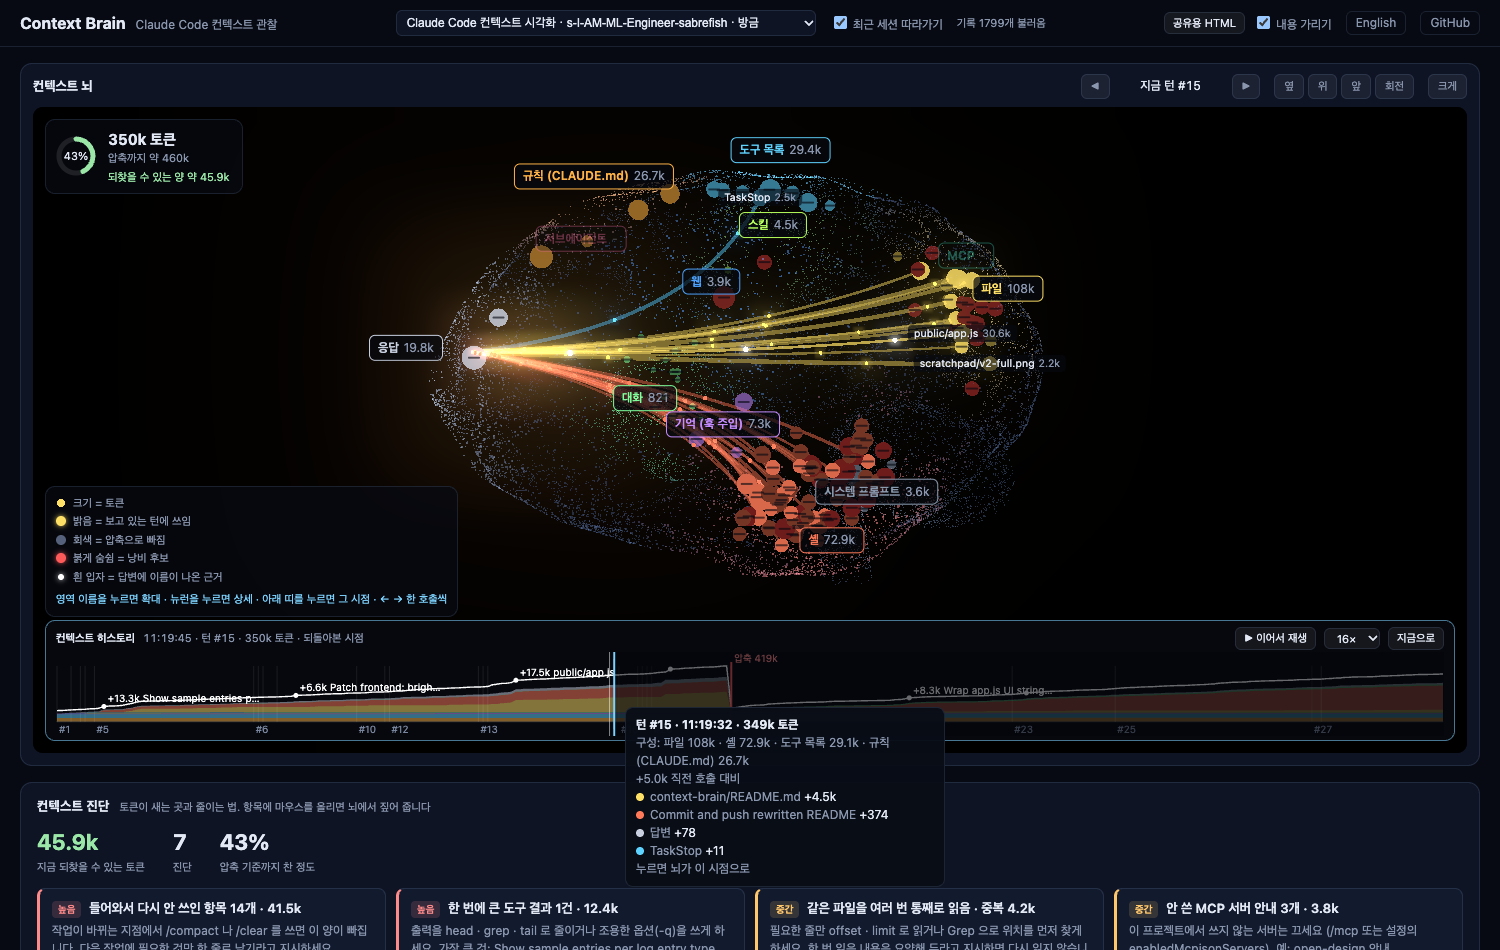
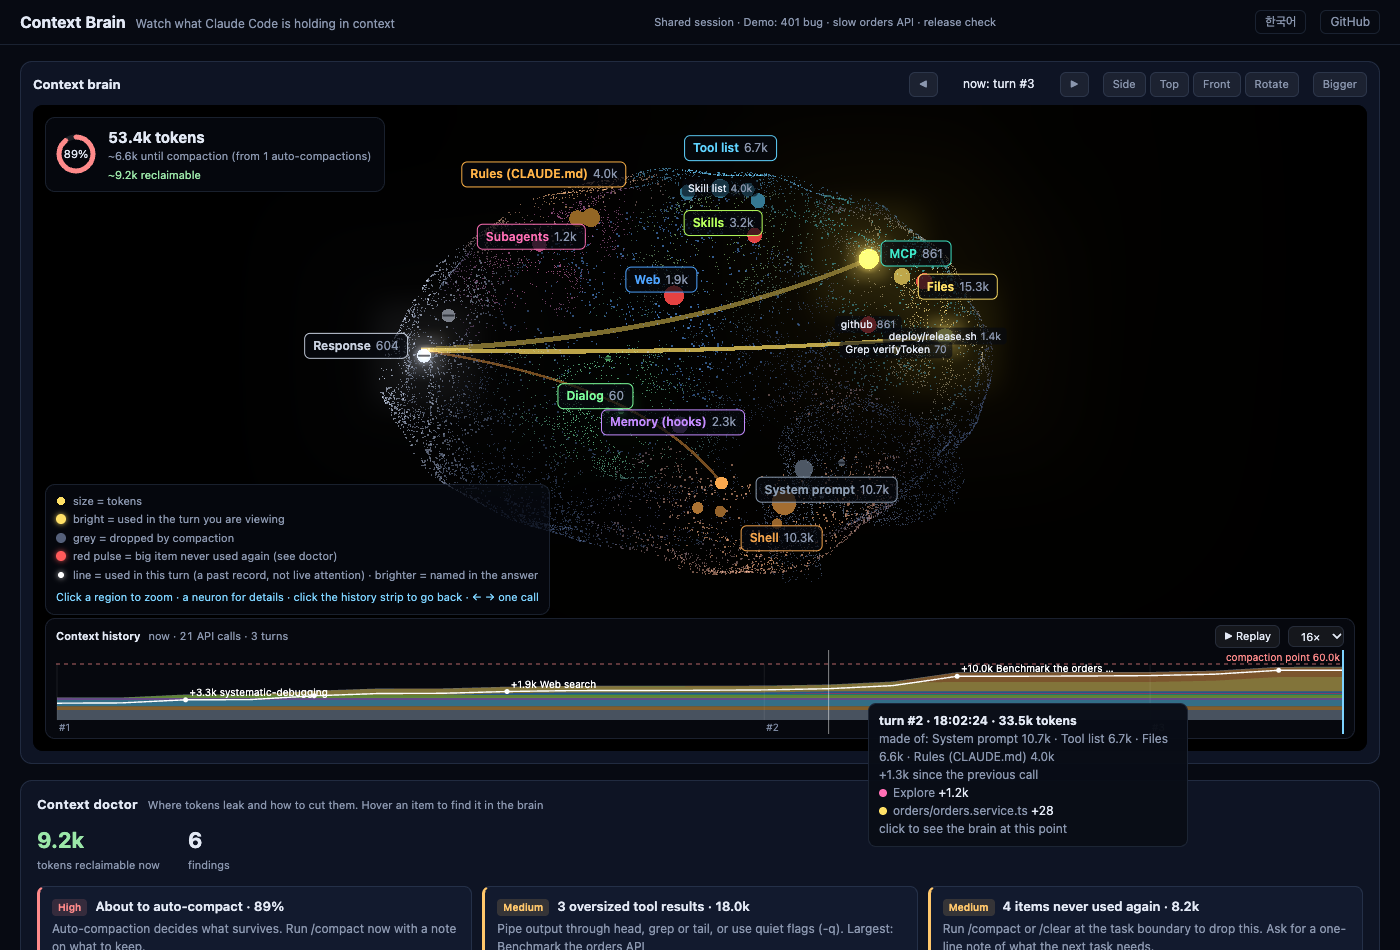
docs: README 를 숫자 통일 · 압축 기준 · 이 턴 카드 · 따라가기 · 선 의미에 맞게 고치고 스크린샷 교체

diff --git a/public/app.js b/public/app.js
@@ -663,7 +663,7 @@ function renderRing(now) {
   const rg = compactInfo.range;
   // 기준이 있으면 남은 양, 없으면 같은 모델에서 자동 압축이 일어난 범위만 밝힌다
   const sub = compactAt
-    ? L(`압축까지 약 ${kfmt(Math.max(0, compactAt - now))} (같은 모델 자동 압축 ${compactInfo.n}건 기준)`, `~${kfmt(Math.max(0, compactAt - now))} until compaction (from ${compactInfo.n} auto-compactions)`)
+    ? L(`압축까지 약 ${kfmt(Math.max(0, compactAt - now))} (같은 모델 자동 압축 ${compactInfo.n}건 기준)`, `~${kfmt(Math.max(0, compactAt - now))} until compaction (from ${compactInfo.n} auto-compaction${compactInfo.n === 1 ? '' : 's'})`)
     : rg ? L(`지난 자동 압축 ${kfmt(rg[0])}~${kfmt(rg[1])} (${compactInfo.n}건, 흩어져 기준 없음)`, `past auto-compactions ${kfmt(rg[0])}–${kfmt(rg[1])} (${compactInfo.n}, too spread for a threshold)`)
       : L('이 모델의 자동 압축 기록 없음', 'no auto-compaction seen for this model');
   box.innerHTML = `${compactAt ? `<svg width="44" height="44" viewBox="0 0 44 44" aria-hidden="true">

diff --git a/scripts/build-web.js b/scripts/build-web.js
@@ -19,5 +19,5 @@ fs.rmSync(tmp, { recursive: true, force: true });
 const titles = { ko: '데모: 401 버그 · 주문 API 병목 · 배포 점검', en: 'Demo: 401 bug · slow orders API · release check' };
 const out = path.join(__dirname, '..', 'web', 'index.html');
 fs.mkdirSync(path.dirname(out), { recursive: true });
-fs.writeFileSync(out, buildHtml({ title: 'Live demo', titles, compactAt: 60000, compactRange: [60000, 60000], compactN: 1, autoplay: true, events: variants.en, variants }));
+fs.writeFileSync(out, buildHtml({ title: 'Live demo', titles, compactAt: 60000, compactRange: [60000, 61000], compactN: 2, autoplay: true, events: variants.en, variants }));
 console.log(`web demo: ${out}`);

diff --git a/README.ko.md b/README.ko.md
@@ -5,8 +5,8 @@
 | 질문 | 뇌에서 보이는 것 |
 |---|---|
 | 무엇이 컨텍스트를 차지하고 있나 | 영역 배지의 토큰 합계, 뉴런 크기, 큰 항목의 이름표 |
-| 이번 답변은 무엇을 보고 나왔나 | 항목에서 응답 영역으로 이어진 빛줄기 (굵기 = 들어온 토큰). 답변에 이름이 나온 근거는 흰 입자 |
-| 무엇이 자리만 차지하고 있나 | 붉게 숨쉬는 뉴런 (낭비 후보) |
+| 이번 답변은 무엇을 보고 나왔나 | 그 턴에 쓰인 항목에서 응답 영역으로 이어진 선 (굵기 = 들어온 토큰, 밝은 선 = 답변에 이름이 나옴). 선은 쓰인 기록이지 지금 보고 있다는 뜻이 아님 |
+| 무엇이 자리만 차지하고 있나 | 붉게 숨쉬는 뉴런 (다시 안 쓰인 큰 항목, 진단과 같은 숫자) |
 | 언제, 무엇 때문에 컨텍스트가 불어났나 | 뇌 아래 컨텍스트 히스토리 띠: API 호출마다 영역별 크기, 크게 불어난 지점의 원인 이름표, 압축 지점 |
 | 무엇을 고치면 되나 | 컨텍스트 진단: 새는 곳마다 크기와 고칠 방법. 브라우저 · 터미널 · Claude Code 상태줄 |
 
@@ -20,7 +20,7 @@
 npx github:workdd/context-brain
 ```
 
-브라우저가 열리고 가장 최근에 수정된 Claude Code 세션을 실시간으로 따라갑니다. 다른 세션은 위쪽 목록에서 고릅니다. 설정은 필요 없습니다. Claude Code가 이미 남기는 세션 로그를 읽기만 합니다.
+브라우저가 열리고 가장 최근에 수정된 Claude Code 세션을 실시간으로 따라갑니다. 따라가기는 그 세션의 프로젝트 안에서만 움직입니다. 다른 세션은 위쪽 목록에서 고릅니다. 설정은 필요 없습니다. Claude Code가 이미 남기는 세션 로그를 읽기만 합니다.
 
 | 명령 | 동작 |
 |---|---|
@@ -112,10 +112,11 @@ npx github:workdd/context-brain
 | 뉴런 크기 | 그 항목이 차지한 토큰 수 (추정) |
 | 밝은 뉴런 | 보고 있는 턴에 쓰임. 그 전 두 턴에 쓰인 것은 중간 밝기, 오래된 것은 어둡게 |
 | 회색 뉴런 | 압축으로 컨텍스트에서 빠짐 |
-| 붉게 숨쉬는 뉴런 | 낭비 후보. 800토큰 이상 들어왔는데 마지막으로 쓰인 뒤 2턴 넘게 다시 쓰이지 않음 |
+| 붉게 숨쉬는 뉴런 | 진단의 '다시 안 쓰인 항목' 중 큰 것 12개. 800토큰 이상 들어왔는데 마지막으로 쓰인 뒤 2턴 넘게 다시 쓰이지 않음 |
 | 이름표 | 토큰이 큰 상위 8개와 보고 있는 턴의 항목(최대 12개). 겹치면 우선순위가 낮은 쪽을 숨김 |
-| 빛줄기 | 보고 있는 턴에 쓰인 항목 → 응답. **굵기 = 결과로 들어온 토큰**. 입자가 계속 흐름 |
-| 흰 입자 | 답변 문장에 그 항목 이름이 그대로 나옴 (근거) |
+| 선 | 보고 있는 턴에 쓰인 항목 → 응답. **굵기 = 결과로 들어온 토큰**. 턴을 고르거나 새 항목이 들어올 때 입자가 한 번 흐르고 멈춤 |
+| 밝은 선 | 답변 문장에 그 항목 이름이 그대로 나옴 (근거) |
+| 배지의 +N개 | 영역에서 큰 항목 20개만 뉴런으로 그리고, 나머지 작은 항목 수. 합계에는 들어 있음 |
 | 순간 반짝임 | 실시간으로 도구 호출(영역 색)과 결과(흰색)가 오갈 때 |
 | 전체가 붉게 번쩍임 | 압축이 일어남 |
 
@@ -135,7 +136,7 @@ npx github:workdd/context-brain
 
 뇌 아래 **컨텍스트 히스토리 띠**는 API 호출마다 점 하나입니다. 쌓인 색 띠는 영역별 구성(뇌 영역과 같은 색), 흰 선은 실측 크기, 빨간 선은 압축 지점과 압축 기준입니다. 가장 크게 불어난 지점에는 원인 항목 이름이 붙습니다. 재생으로 지켜보는 것보다, 불어난 지점을 눌러 그때 뇌를 보는 쪽이 빠릅니다.
 
-왼쪽 위 링은 압축 기준 대비 현재 컨텍스트 크기입니다. 압축 기준은 최근 세션에서 실제로 자동 압축이 일어난 직전 크기 중 최댓값입니다.
+왼쪽 위 링은 현재 컨텍스트 크기입니다. 같은 모델의 지난 자동 압축 크기가 25% 안에 모이면 그 값을 압축 기준으로 삼아 %를 보여 주고, 흩어져 있으면 %없이 범위만 보여 줍니다. 수동 `/compact` 는 셈에서 뺍니다.
 
 ![영역 확대](docs/lobe.png)
 
@@ -149,12 +150,12 @@ npx github:workdd/context-brain
 
 ## 뇌 아래 패널
 
-![예산과 타임라인](docs/panels.png)
-
 | 패널 | 내용 |
 |---|---|
-| 컨텍스트 예산 | 현재 컨텍스트(API 실측), 압축 기준 게이지, 크기 변화 그래프, 항목별 면적 지도, 낭비 후보 목록 |
-| 턴 타임라인 | 턴마다 작은 뇌 썸네일, 도구 호출 흐름(실패는 빨간 테두리), 답변 문장별 근거 칩, 늘 실려 있던 컨텍스트. "이 턴을 뇌에서 보기"로 위 뇌를 그 턴으로 바꿈 |
+| 컨텍스트 진단 | 토큰이 새는 곳과 고칠 방법 (위 절 참고) |
+| 이 턴 | 뇌가 보여 주는 턴 하나. 도구 호출 흐름(실패는 빨간 테두리), 답변 문장별 근거 칩. ◀ ▶ 나 히스토리 띠로 턴을 고름 |
+| 자리를 차지한 것 | 지금 컨텍스트에 남은 항목의 면적 지도. 다시 안 쓰인 큰 항목은 빨간 테두리 |
+| 프로젝트 진단 | 버튼을 누르면 같은 프로젝트의 최근 세션들을 분석 |
 
 목록 위에 마우스를 올리면 뇌에서 해당 뉴런이 잠깐 밝아집니다.
 
@@ -175,7 +176,7 @@ npx github:workdd/context-brain
         ▼
 브라우저
   · public/model.js  면적 지도 배치, 문장 분리, 근거 연결, 낭비 판정
-  · public/app.js    3D 뇌 (three.js), 예산, 타임라인, 상세
+  · public/app.js    3D 뇌 (three.js), 히스토리 띠, 패널, 상세
 ```
 
 - Claude Code 설정이나 훅을 건드리지 않습니다. 로그 파일을 읽기만 합니다
@@ -201,8 +202,8 @@ npx github:workdd/context-brain
 
 - **빛과 근거는 attention이 아닙니다.** 실제로 일어난 사용 기록(도구 호출, 결과, 답변 본문의 이름 일치)입니다. 이름을 말하지 않고 내용만 쓴 문장은 근거가 없는 것처럼 보입니다.
 - **뉴런 토큰은 추정치입니다.** 실측 사용량에 맞춘 계수로 셉니다 (위 절 참고). 링과 "현재 컨텍스트"만 API 실측값입니다.
-- **압축 기준은 관측값입니다.** 모델이나 설정이 다른 세션의 압축 크기가 섞일 수 있습니다.
-- **낭비 후보는 제안입니다.** 다시 쓰이지 않았다는 사실만 봅니다. 규칙처럼 조용히 참고되는 내용은 대상에서 뺐습니다.
+- **압축 기준은 관측값입니다.** 같은 모델의 자동 압축만 셉니다. 같은 모델이라도 세션마다 컨텍스트 창이 다를 수 있어, 값이 25% 넘게 흩어지면 기준을 내세우지 않습니다.
+- **'다시 안 쓰인 항목'은 제안입니다.** 다시 호출되거나 이름이 나오지 않았다는 사실만 봅니다. 모델은 호출마다 컨텍스트 전체를 다시 읽고, 로그에는 어느 부분을 봤는지 남지 않습니다. 규칙처럼 조용히 참고되는 내용은 대상에서 뺐습니다.
 - **로그 형식은 공개 규격이 아닙니다.** Claude Code 버전이 바뀌면 일부 항목이 안 잡힐 수 있습니다. 파서는 모르는 항목을 건너뜁니다.
 
 ## 개발

diff --git a/README.md b/README.md
@@ -10,16 +10,16 @@
 npx github:workdd/context-brain
 ```
 
-That's it. It opens your browser and follows your most recent Claude Code session in real time. Nothing to configure: it only reads the session logs Claude Code already writes.
+That's it. It opens your browser and follows your most recent Claude Code session in real time, staying within that project. Nothing to configure: it only reads the session logs Claude Code already writes.
 
 ## What it answers
 
 | Question | Where you see it |
 |---|---|
 | What is filling my context? | Region badges with token totals, neuron size, name tags on the biggest items |
-| What did this answer actually use? | Light beams from items into the Response region (thickness = tokens returned). White particles = the answer names that item |
+| What did this answer actually use? | Lines from each item used in the turn to the Response region (thickness = tokens returned, brighter = the answer names it). A line is a record of use, not live attention |
 | What is just taking up space? | Red pulsing neurons: 800+ tokens, not used again for more than 2 turns |
-| How close am I to auto-compaction? | The ring in the corner, against the size where your recent sessions actually compacted |
+| How close am I to auto-compaction? | The ring in the corner, against where this model auto-compacted before. If past auto-compactions are too spread out to call a threshold, it shows the range instead of a percentage |
 | When and why did the context grow? | The context history strip under the brain: size per API call by region, the biggest jumps labeled with their cause, compactions marked |
 | What should I change? | Context doctor: each leak with its size and a concrete fix, in the browser, the terminal and the Claude Code status line |
 
@@ -91,8 +91,8 @@ It reads `transcript_path` from the status line input and caches the compaction 
 - **Share as one HTML file**: export a session as a single self-contained HTML that opens without a server and replays itself. Redaction is on by default.
 - **Click anything**: a region badge zooms the camera and lists its items. A neuron shows the full command or edit, the start of its output, its use history and the turns it appeared in.
 - **Context doctor**: ranked findings with their size, a concrete fix, and chips you can hover to find the item in the brain. Also `doctor` in the terminal and `statusline` for Claude Code.
-- **Budget panel**: measured context size (from API usage), a compaction gauge, a size sparkline, a treemap of what takes the space, and the dead-weight list.
-- **Turn timeline**: per turn, a mini brain, the tool-call flow (failures in red), and each answer sentence with chips for the items it names.
+- **What takes up the space**: a treemap of everything still in context, sized by estimated tokens. The biggest never-used-again items are outlined in red, the same ones that pulse red in the brain.
+- **This turn**: the turn the brain is showing, with its tool-call flow (failures in red) and each answer sentence with chips for the items it names. Pick another turn with ◀ ▶ or the history strip.
 - **English and Korean UI**: follows your browser language. Switch in the header.
 
 ![Context Brain viewer](docs/brain-en.png)
@@ -179,8 +179,8 @@ On whole sessions, the sum of item estimates now lands at 0.8 to 1.0 of the meas
 
 - **Light is not attention.** Beams and evidence come from what actually happened: tool calls, results, and item names appearing in the answer text. A sentence that uses a file without naming it shows no evidence.
 - **Neuron tokens are estimates** fitted to measured usage (see above). Only the ring and "Context now" are measured by the API directly.
-- **The compaction point is observed**, taken from recent sessions that actually compacted. Sessions on different models or settings can mix.
-- **Dead weight is a hint.** It only knows an item was not used again. Rules and other quietly consulted context are excluded.
+- **The compaction point is observed**, from automatic compactions of the same model in recent sessions (manual `/compact` is ignored). A model's sessions can run with different context windows, so when those sizes spread by more than 25% no threshold is claimed.
+- **"Never used again" is a hint.** It only knows an item was not called or named again. The model re-reads the whole context on every call, and the log does not say which parts it attended to. Rules and other quietly consulted context are excluded.
 - **The log format is not a public spec.** A Claude Code update can hide some items. Unknown entries are skipped.
 
 ## Development
